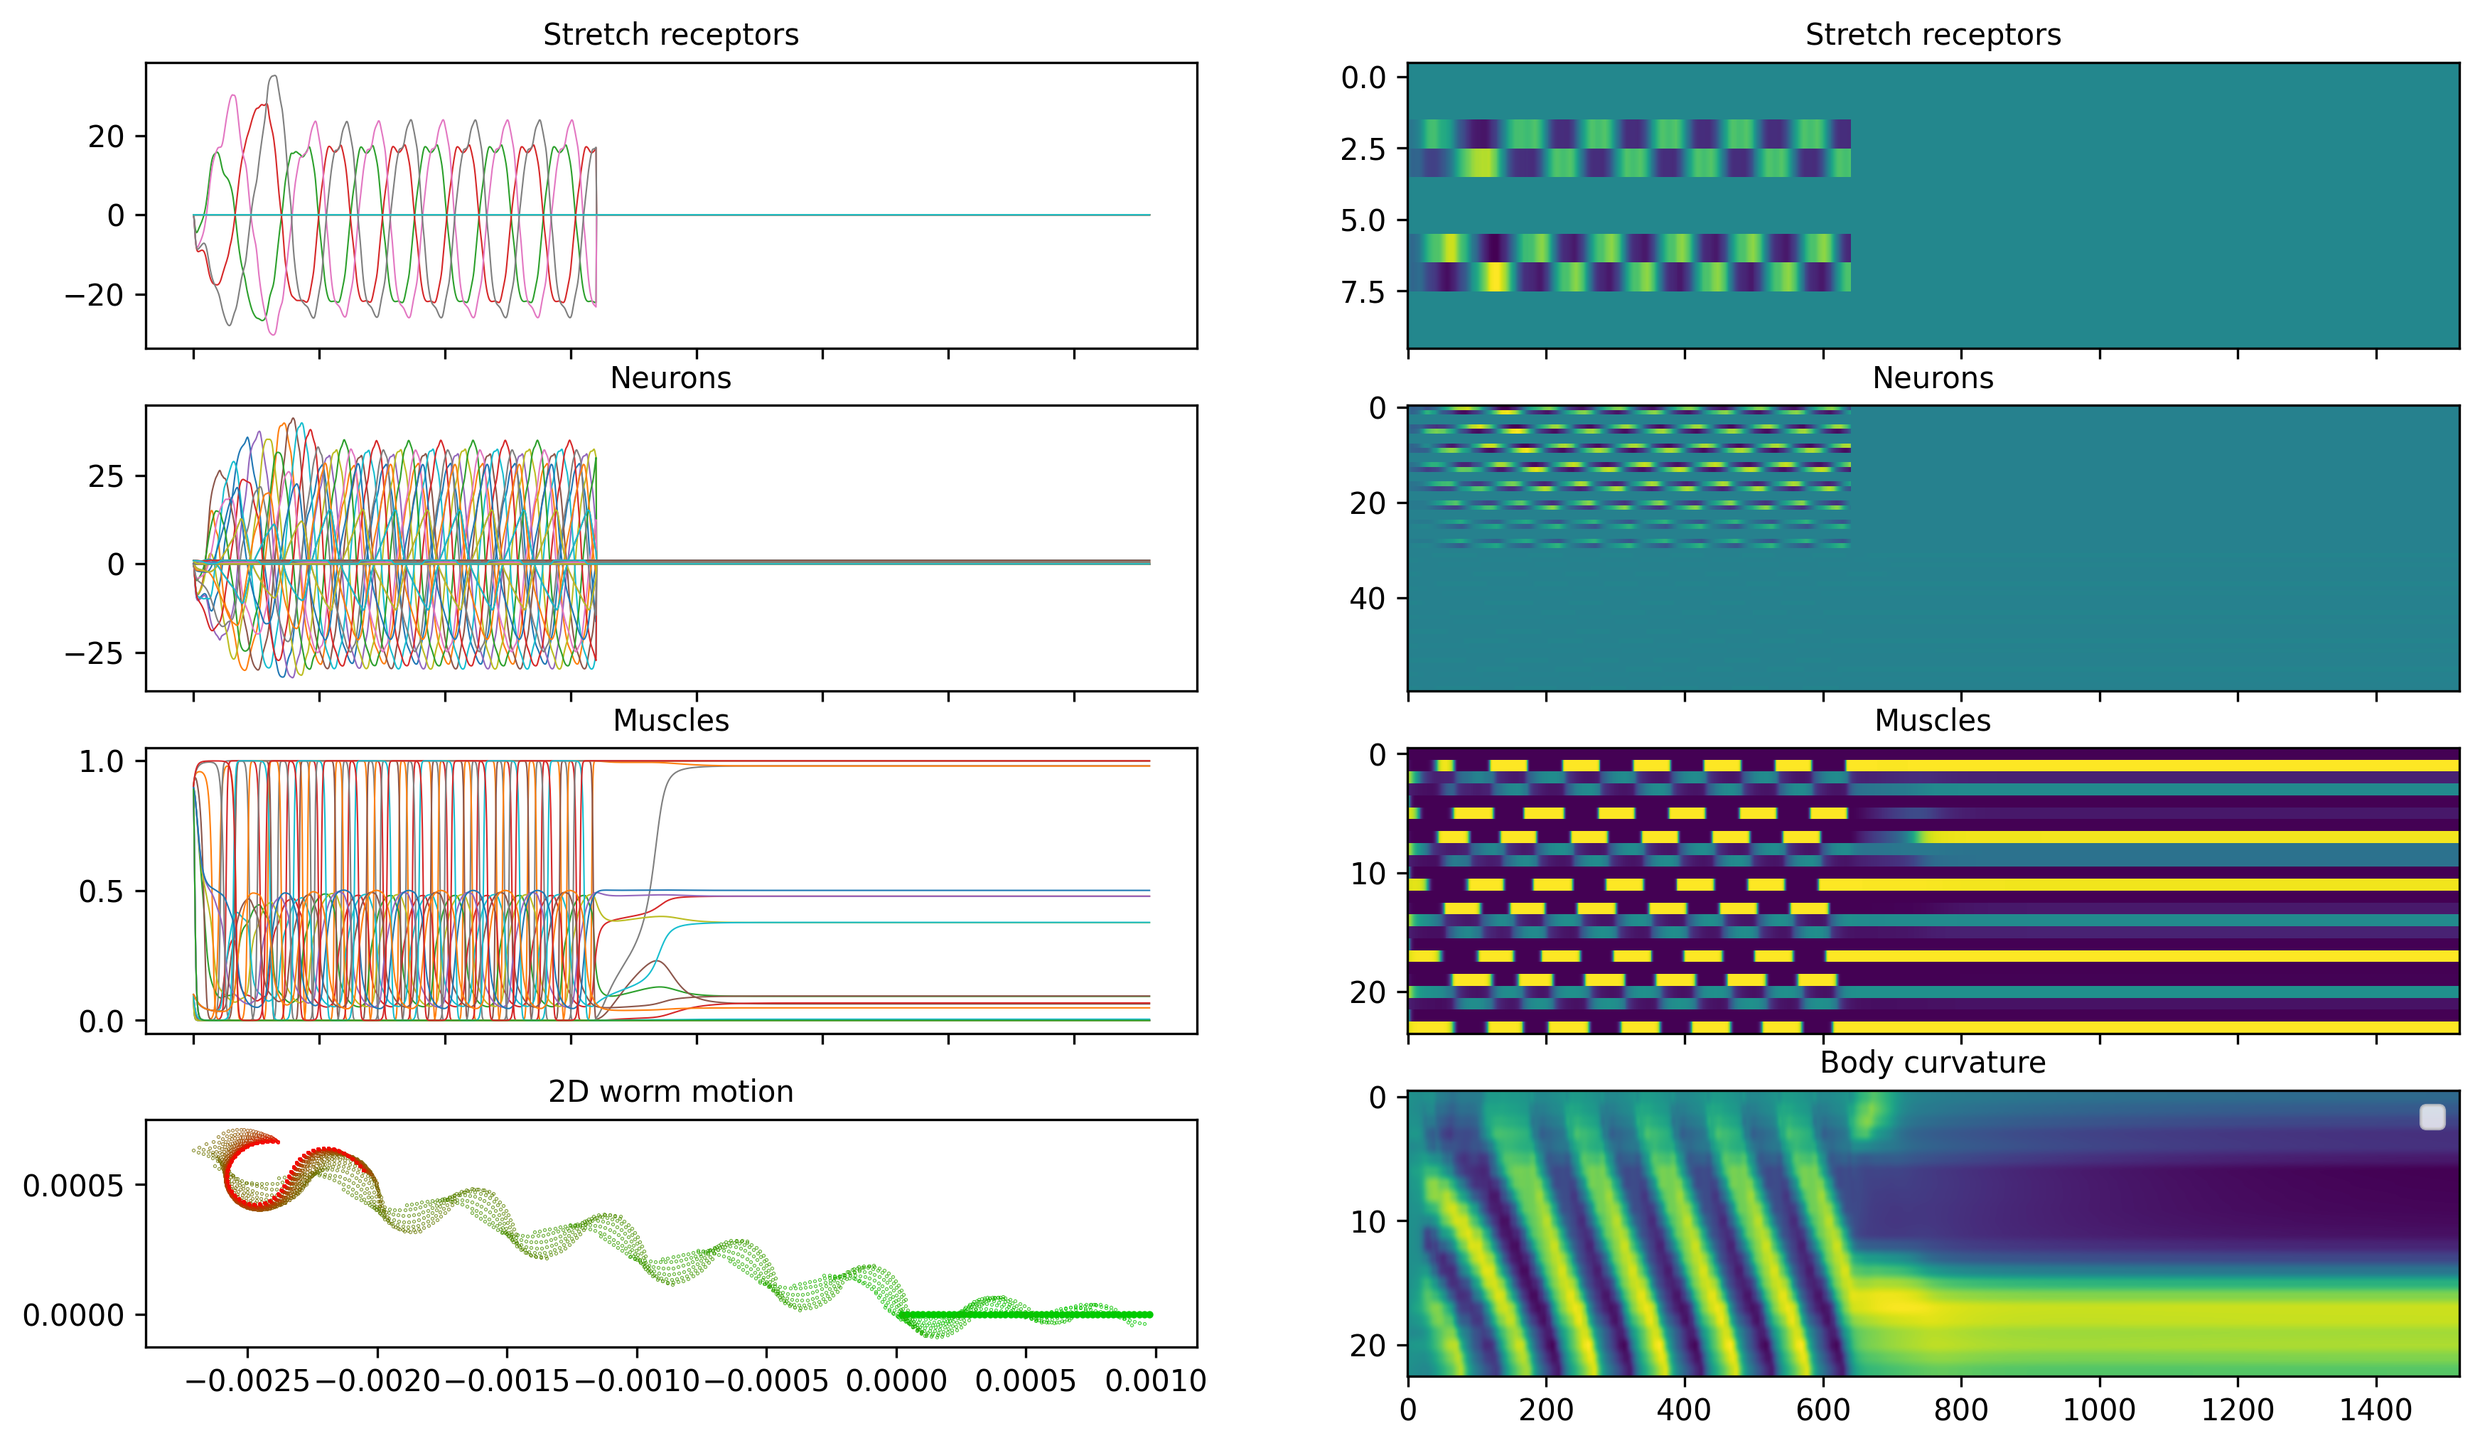
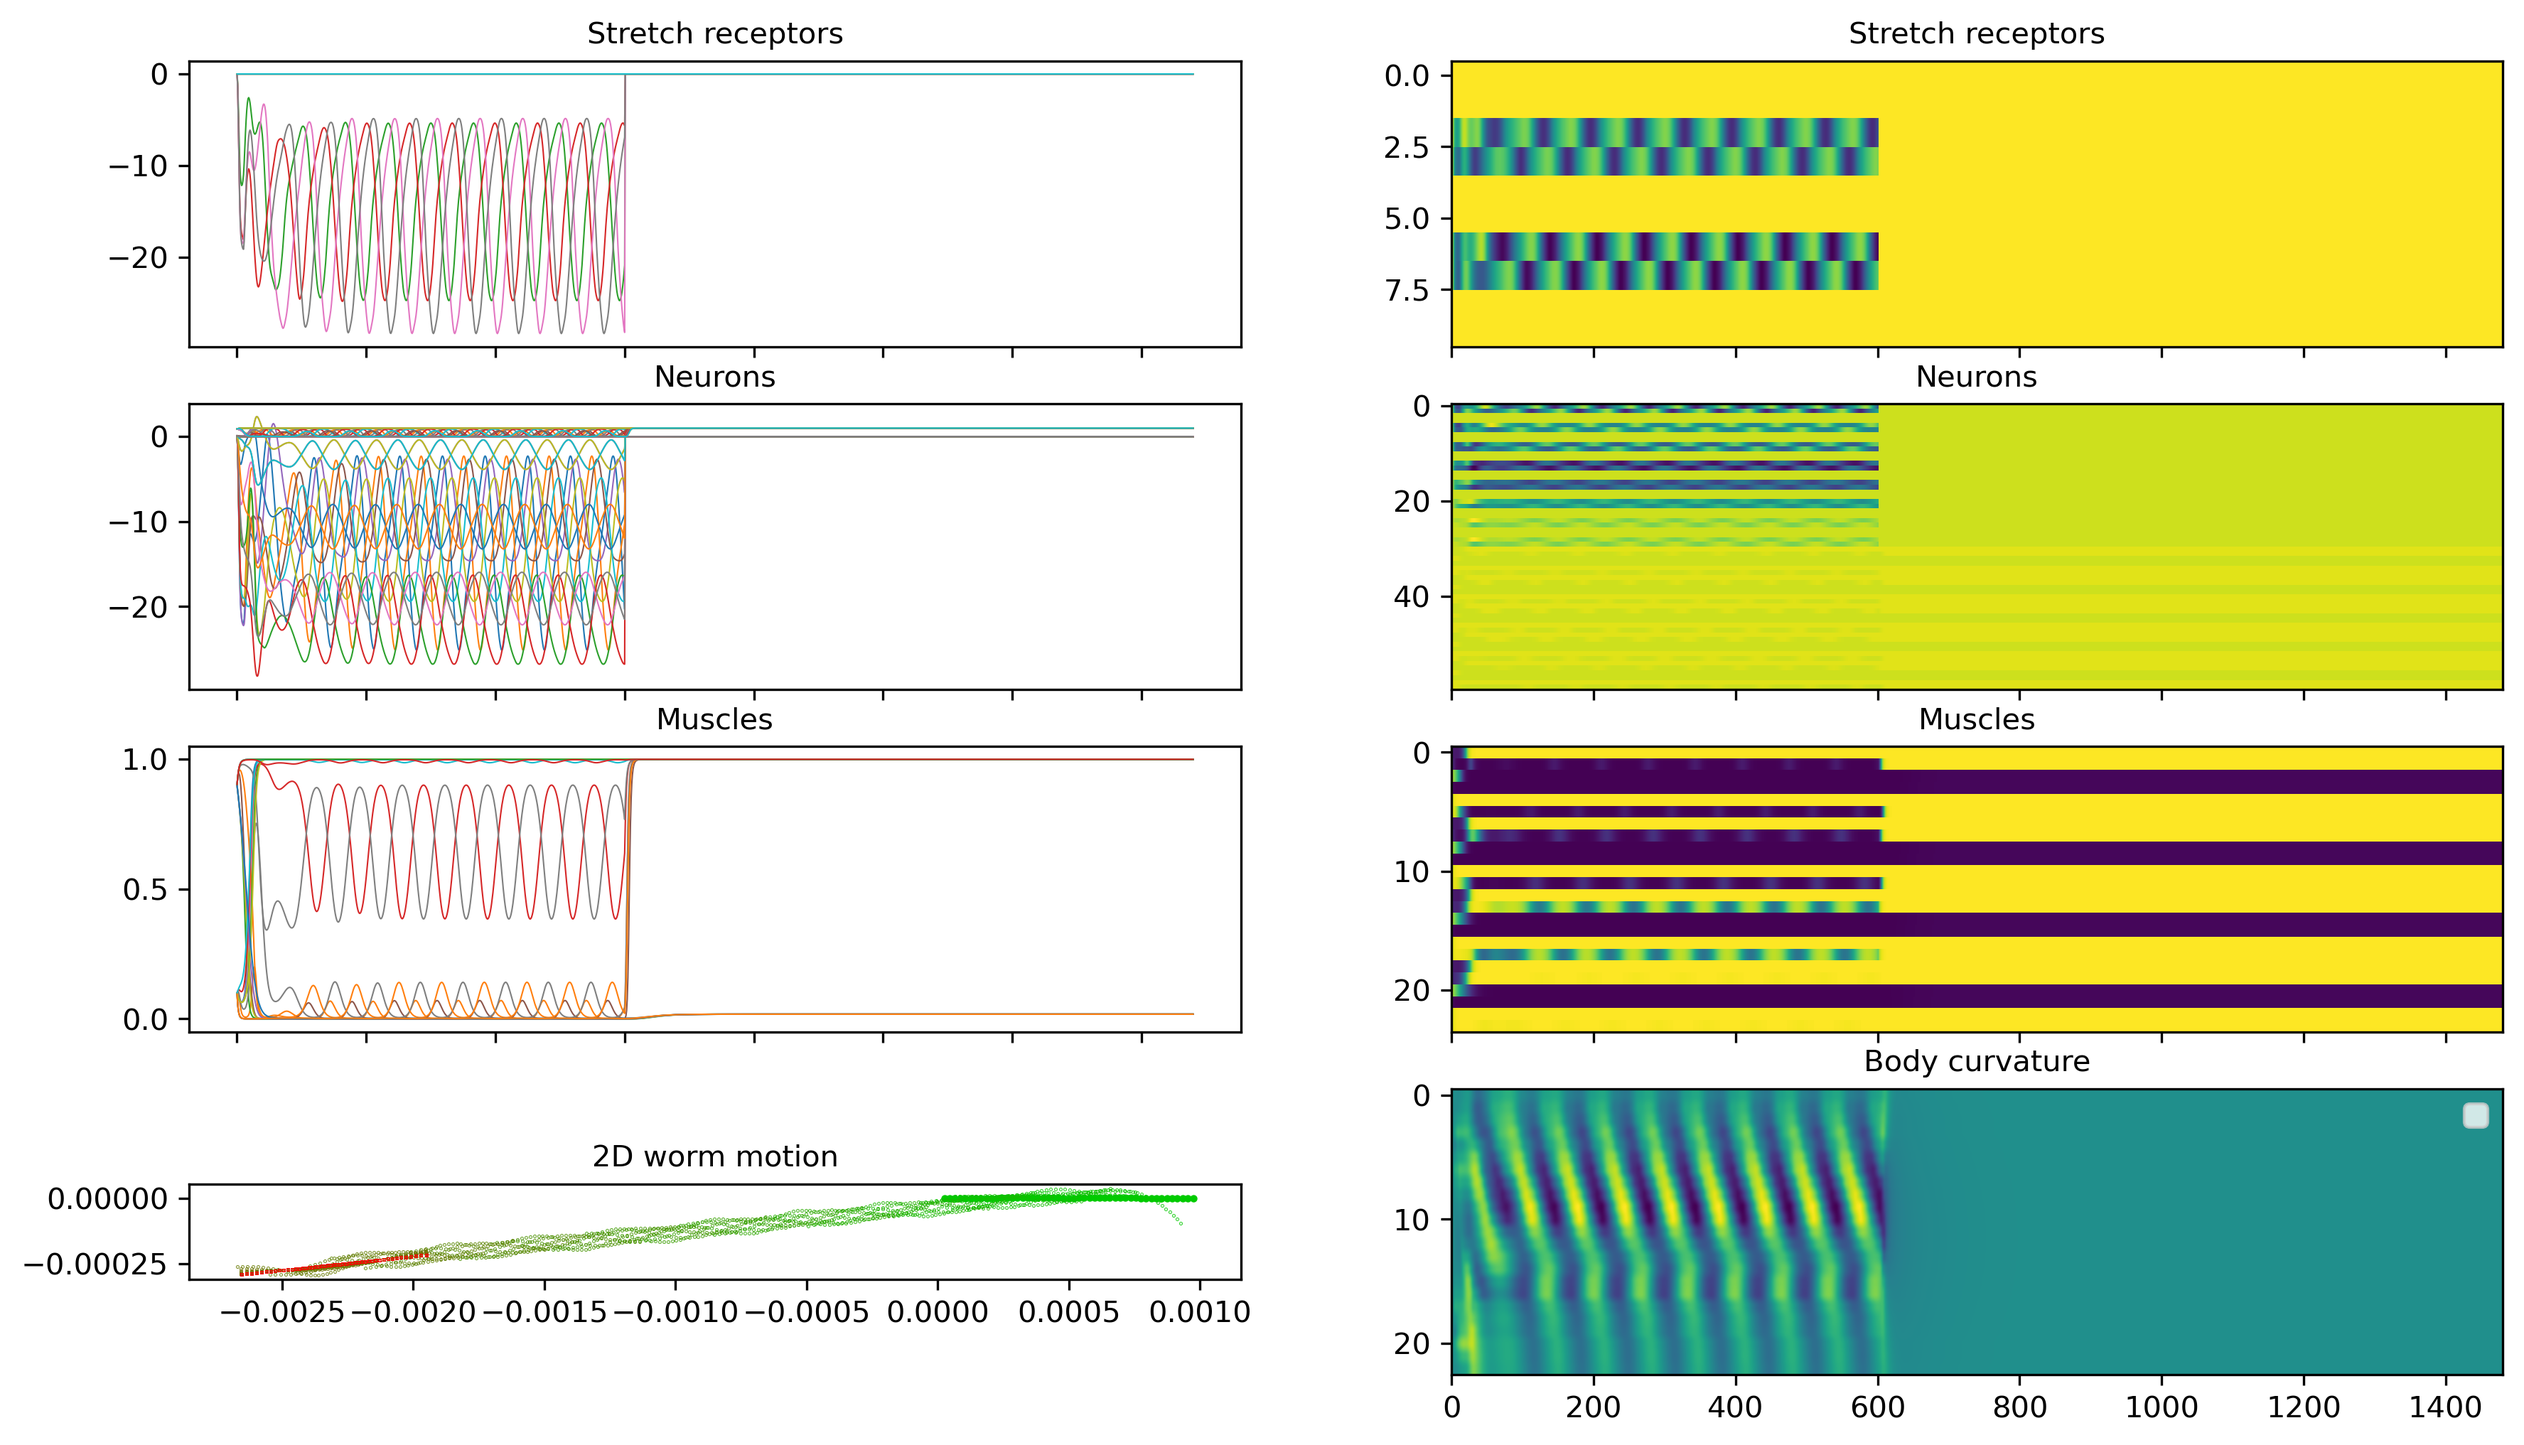
update for multiple args

diff --git a/main.cpp b/main.cpp
@@ -18,7 +18,7 @@ int skip_steps = 10;
 using namespace std;
 
 // Integration parameters
-const int Duration = 24;
+int Duration = 24;
 const double Transient = 8.0;
 const double StepSize = 0.005;
 const int N_curvs = 23;
@@ -256,11 +256,18 @@ int main (int argc, const char* argv[])
     std::cout << std::setprecision(10);
     long randomseed = static_cast<long>(time(NULL));
     int pop_size = 96;
+    
+    const bool is_even = ((argc-1) % 2) == 0; //todo: check even
 
-    if (argc > 1)
-        randomseed += atoi(argv[1]);
-    if (argc > 2)
-        pop_size = atoi(argv[2]);
+    for (int arg = 1; arg<argc; arg+=2)
+    { 
+    using namespace std::literals;  
+    if (argv[arg]=="-r"s) randomseed += atoi(argv[arg+1]);
+    if (argv[arg]=="-p"s) pop_size = atoi(argv[arg+1]);
+    if (argv[arg]=="-d"s) Duration = atoi(argv[arg+1]);
+    }
+    cout <<  "randseed " << randomseed << " pop size " << pop_size << " duration " << Duration << endl;
+
 
     TSearch s(VectSize);
 

diff --git a/run_main.py b/run_main.py
@@ -5,16 +5,19 @@ def run_cpp_program():
    
     parser=argparse.ArgumentParser(description="argument parser")
     
-    parser.add_argument("-r", "--rand_seed", nargs=1, default=42)
-    parser.add_argument('-p', "--pop_size", nargs=1, default=96)
+    parser.add_argument("-r", "--rand_seed", type=int, nargs='?', default=42)
+    parser.add_argument('-p', "--pop_size", type=int, nargs='?', default=96)
+    parser.add_argument('-d', "--duration", type=int, nargs='?', default=24)
 
     args=parser.parse_args()
 
-    cmd = ['./main', str(args.rand_seed), str(args.pop_size)]
+    cmd = ['./main', '-r', str(args.rand_seed), '-p', str(args.pop_size), '-d', str(args.duration)]
     
     # Run the C++  
-    result = subprocess.run(cmd, capture_output=True, text=True) 
-    
+    result = subprocess.run(cmd, capture_output=True, text=True)
+
+    if result.stdout: 
+       print(result.stdout)
     
     if result.stderr: 
         print("Error:") 

diff --git a/load_data.py b/load_data.py
@@ -76,6 +76,8 @@ axs[3, 1].imshow(curv_data_less_time, aspect='auto')
 body_data = np.loadtxt('body.dat').T
 
 tmax = 1520
+if tmax >= body_data.shape[1]:
+   tmax = body_data.shape[1]
 num = 60.
 
 axs[3,0].set_title('2D worm motion', fontsize=title_font_size)
